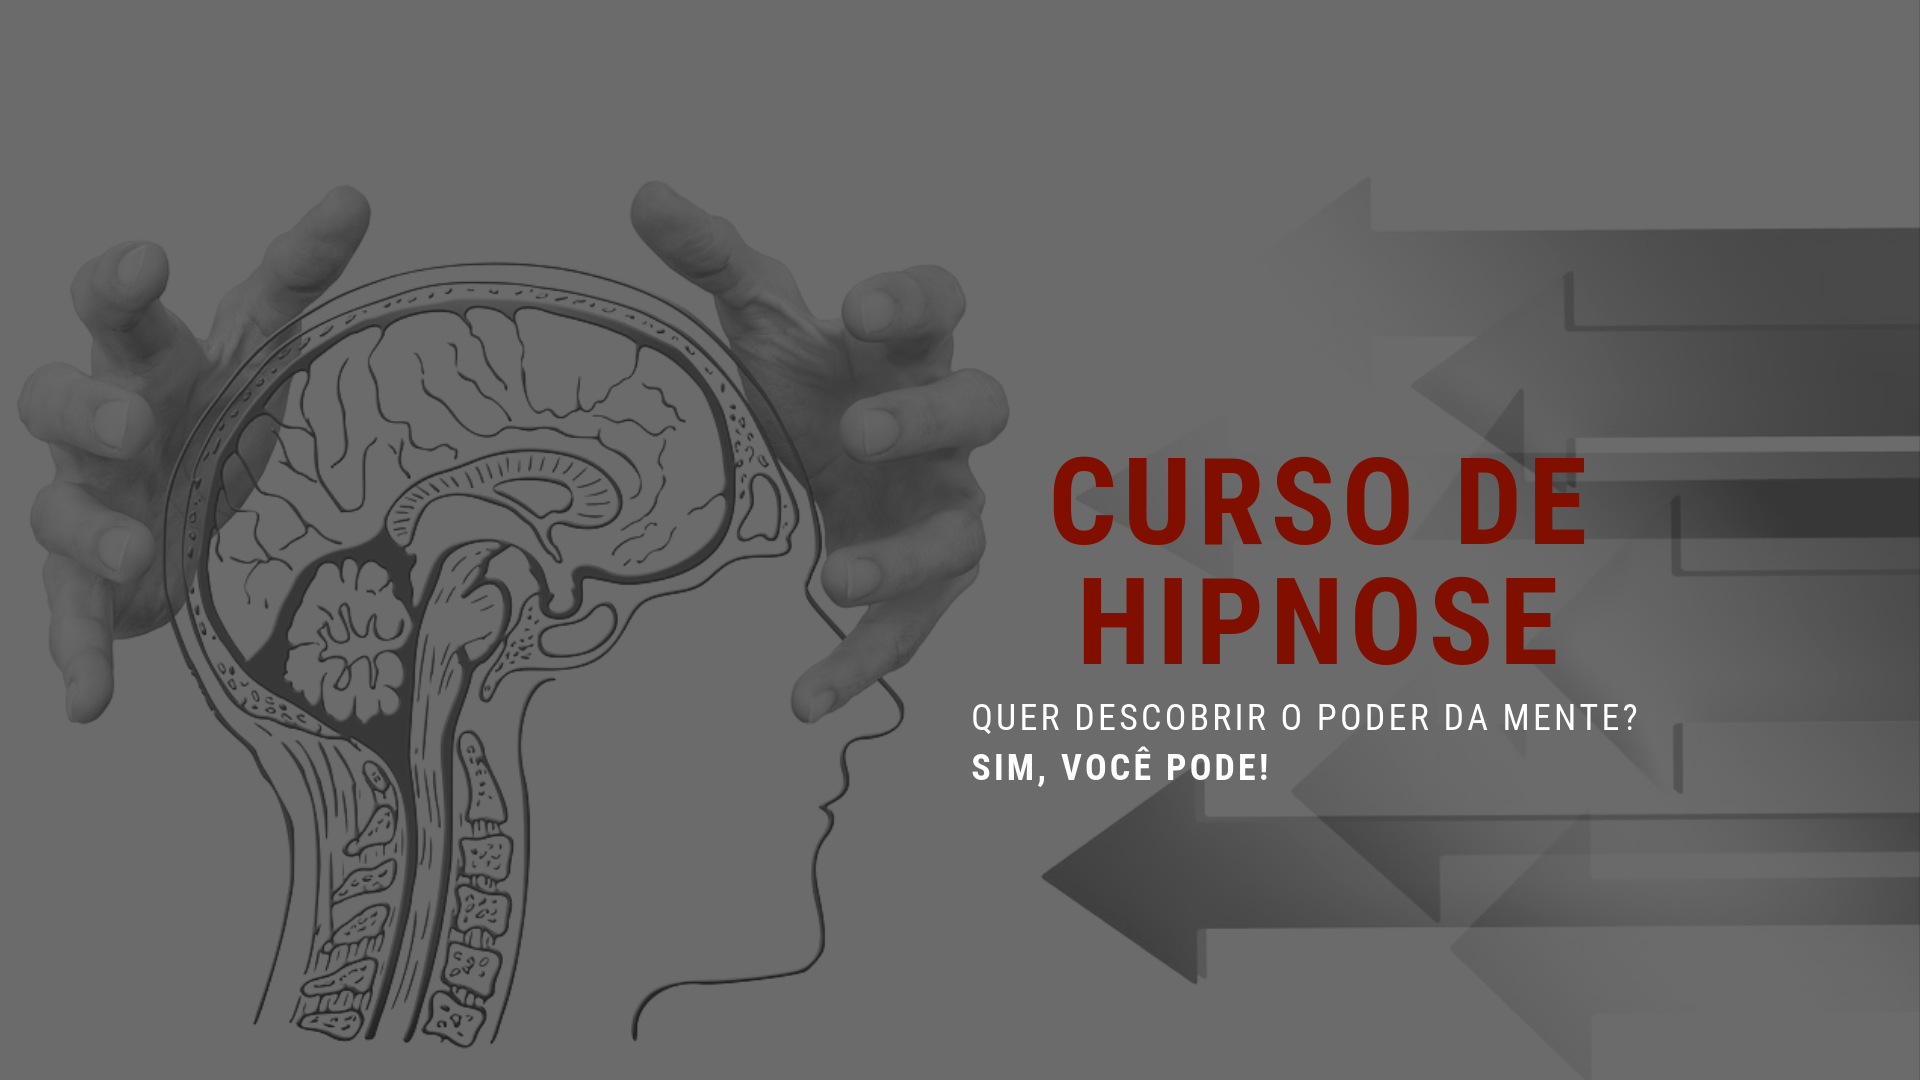
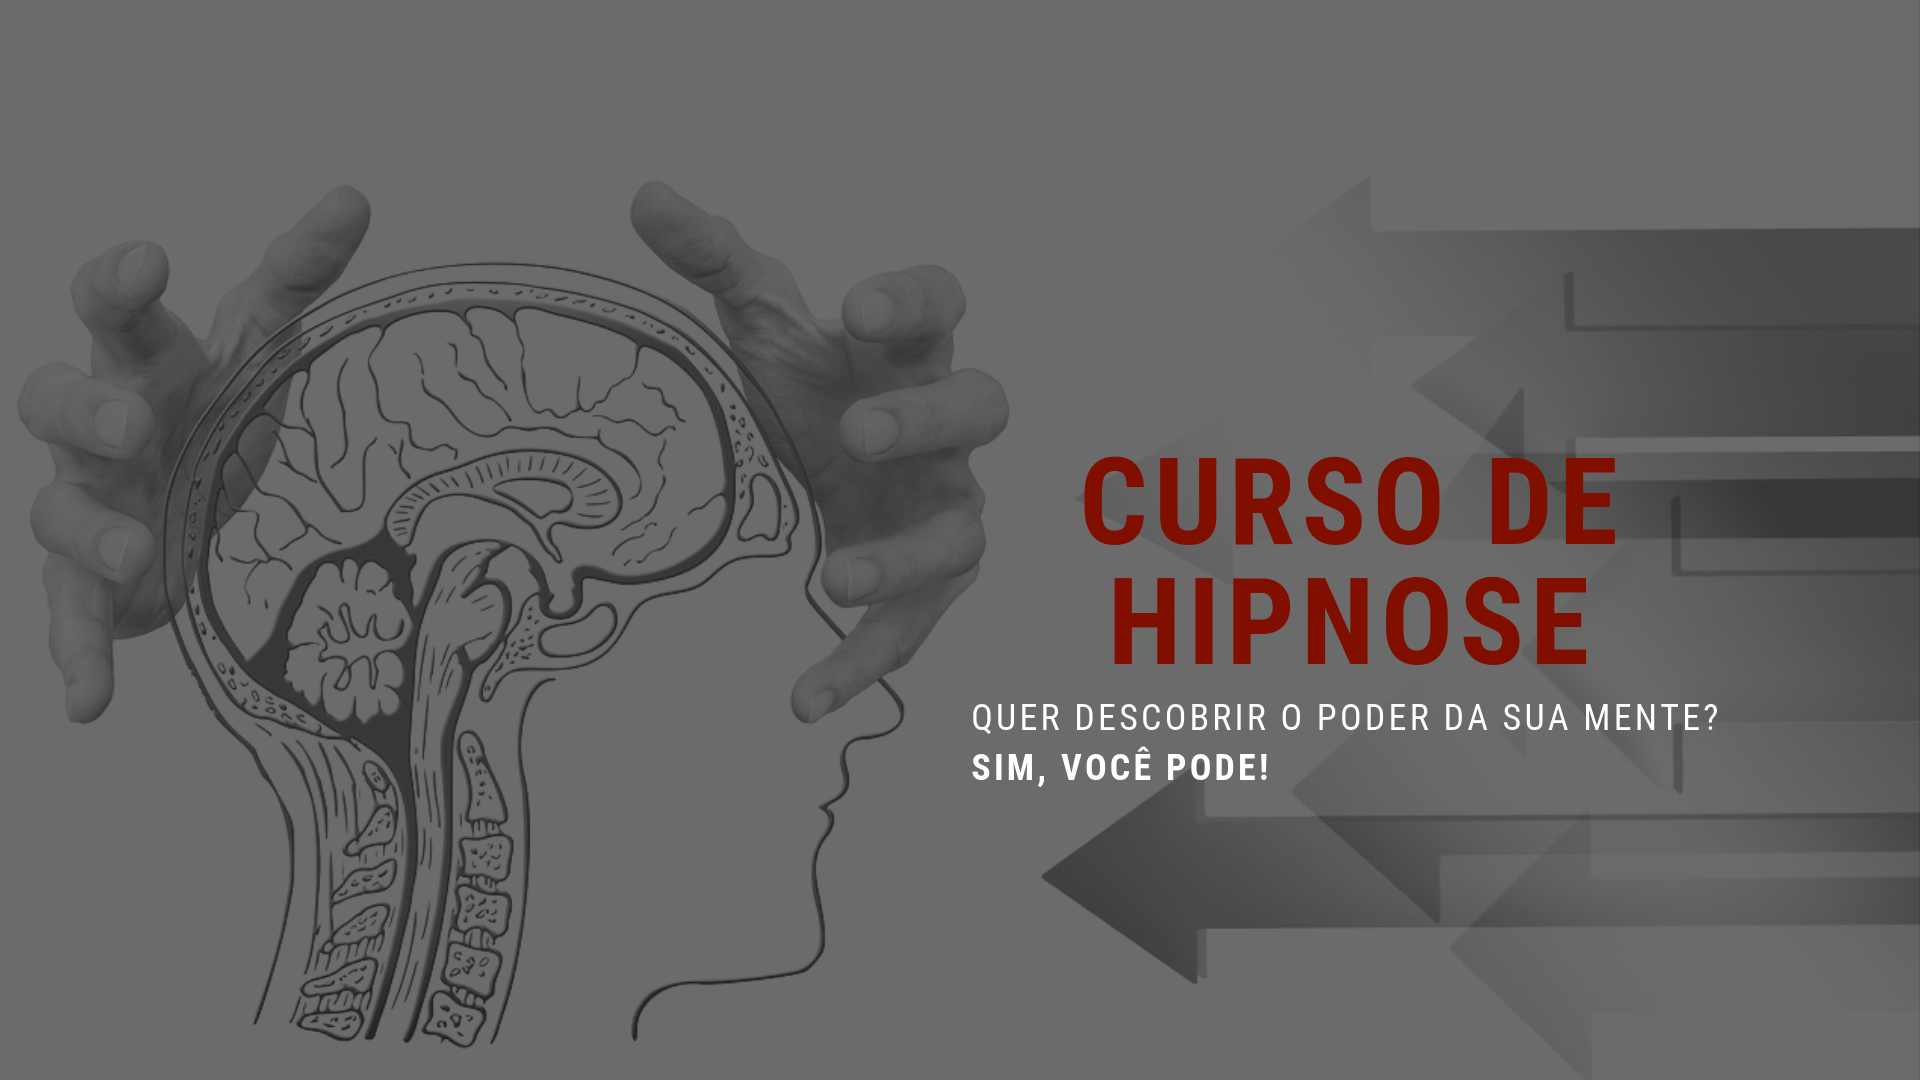
fix

Changed region(s): [[0.5312, 0.3972, 0.8438, 0.6417], [0.7812, 0.6417, 0.9062, 0.6722]]

diff --git a/index.html b/index.html
@@ -1,6 +1,6 @@
 ---
 layout: default
-title: Centro de Treinamento em Comunicação e Oratória
+title: Centro de Treinamentos em Desenvolvimento Pessoal
 description: Nosso propósito é transmitir os conhecimentos da área da comunicação, promovendo a expressão do ser, trazendo a força e o poder para superar os desafios cotidianos e atingir patamares ainda maiores.
-keywords: curso de oratória, curso de comunicação, curso de persuasão, curso de eloquência, treinamento de oratória, treinamento de comunicação, treinamento de persuasão, treinamento de eloquência, curso de oratória em apucarana, curso de comunicação em apucarana, curso de persuasão em apucarana, curso de eloquência em apucarana, treinamento de oratória em apucarana, treinamento de comunicação em apucarana, treinamento de persuasão em apucarana, treinamento de eloquência em apucarana, medo de falar em público, aprenda a falar em público, perca o medo de falar em público, como falar em público, aprenda a fazer um discurso, como fazer um discurso, apresentação de tcc, como falar em público e encantar pessoas, a communicare é confiavel?, communicare treinamentos, communicare treinamentos apucarana, cursos em apucarana, curso em apucarana, treinamentos em apucarana, treinamento em apucarana, oratória, comunicação, persuasão, eloquência, medo de falar em público, pnl, programação neurolinguística apucarana, vinicius campos,
+keywords: curso de oratória, curso de hipnose, curso de comunicação, curso de persuasão, curso de eloquência, treinamento de oratória, treinamento de hipnose, treinamento de comunicação, treinamento de persuasão, treinamento de eloquência, curso de oratória em apucarana, curso de hipnose em apucarana, curso de comunicação em apucarana, curso de persuasão em apucarana, curso de eloquência em apucarana, treinamento de oratória em apucarana, treinamento de hipnose em apucarana, treinamento de comunicação em apucarana, treinamento de persuasão em apucarana, treinamento de eloquência em apucarana, medo de falar em público, controle de raiva, aprenda a falar em público, perca o medo de falar em público, auto controle, como falar em público, aprenda a fazer um discurso, aprenda a hipnotizar, como fazer um discurso, apresentação de tcc, como falar em público e encantar pessoas, como hipnotizar pessoas, a communicare é confiavel?, communicare treinamentos, communicare treinamentos apucarana, cursos em apucarana, curso em apucarana, treinamentos em apucarana, treinamento em apucarana, oratória, comunicação, persuasão, eloquência, hipnose, medo de falar em público, pnl, programação neurolinguística apucarana, vinicius campos, alessandro folk,
 ---

diff --git a/curso-de-hipnose.html b/curso-de-hipnose.html
@@ -2,6 +2,6 @@
 layout: treinamentos
 title: Hipnose
 description: A Hipnose é um estado de consciência que envolve atenção focada e consciência periférica reduzida, caracterizado por uma maior capacidade de resposta à sugestão. Desta forma o curso abordará em profundidade a fundamentação teórica e conceitual mostrando passo a passo na prática como aplicar a hipnose em qualquer situação, com rapidez e segurança garantindo consistência aos atendimentos e práticas.
-keywords: curso de oratória, curso de comunicação, curso de persuasão, curso de eloquência, treinamento de oratória, treinamento de comunicação, treinamento de persuasão, treinamento de eloquência, curso de oratória em apucarana, curso de comunicação em apucarana, curso de persuasão em apucarana, curso de eloquência em apucarana, treinamento de oratória em apucarana, treinamento de comunicação em apucarana, treinamento de persuasão em apucarana, treinamento de eloquência em apucarana, medo de falar em público, aprenda a falar em público, perca o medo de falar em público, como falar em público, aprenda a fazer um discurso, como fazer um discurso, apresentação de tcc, como falar em público e encantar pessoas, a communicare é confiavel?, communicare treinamentos, communicare treinamentos apucarana, cursos em apucarana, curso em apucarana, treinamentos em apucarana, treinamento em apucarana, oratória, comunicação, persuasão, eloquência, medo de falar em público, pnl, programação neurolinguística apucarana, vinicius campos,
+keywords: curso de hipnose, curso de comunicação, curso de persuasão, curso de eloquência, treinamento de hipnose, treinamento de comunicação, treinamento de persuasão, treinamento de eloquência, curso de hipnose em apucarana, curso de eloquência em apucarana, treinamento de hipnose em apucarana, treinamento de persuasão em apucarana, treinamento de eloquência em apucarana, controle da raiva, como hipnotizar, aprenda a fazer hipnose, como fazer hipnose, auto hipnose, a communicare é confiavel?, communicare treinamentos, communicare treinamentos apucarana, cursos em apucarana, curso em apucarana, treinamentos em apucarana, treinamento em apucarana, hipnose, hipnoterapia, pnl, programação neurolinguística apucarana, vinicius campos, alessandro folk,
 ---
 {% include curso-de-hipnose.html %}
